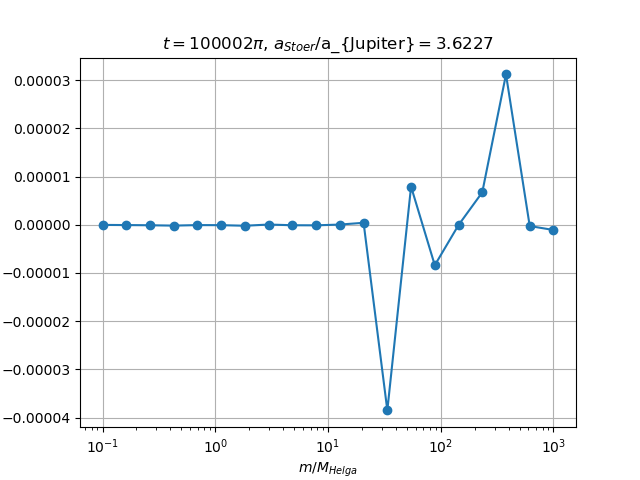
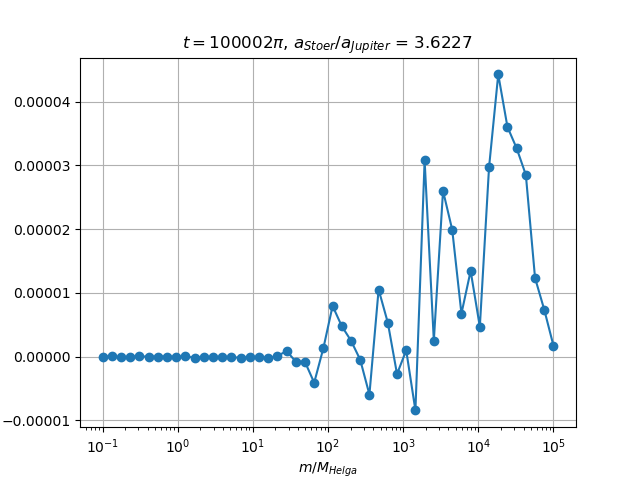
mstoer

diff --git a/python/lyapunov_exponent.py b/python/lyapunov_exponent.py
@@ -120,10 +120,8 @@ def lyapunov_helga_m_stoerung(start, end, steps, t):
         lyapunov[k] = l
     print(lyapunov)
     fig = plotlyapunov_m(lyapunov, masses)
-    plt.title('$t = %3d  2 \pi $, $a_{Stoer}/$a_{Jupiter}$ = %5.4f $' %(t,a_stoer))
+    plt.title('$t = %3d  2 \pi $, $a_{Stoer}$/$a_{Jupiter}$ = %5.4f ' %(t,a_stoer))
     fig.savefig('lyapunov_exp_m_variation.png')
-
-
 
 #----------------------------------------------------------------
 # set parameters for functions
@@ -138,9 +136,9 @@ a_end = 0.699
 a_stepsize = 0.00005
 
 m_start = -1 # m_start: starting exponent base 10
-m_end = 3 # m_end: ending exponent base 10
-m_steps = 20
-m_t = 1e4
+m_end = 5 # m_end: ending exponent base 10
+m_steps = 50
+m_t = 1e5
 
 if __name__ == "__main__":
     # lyapunov_t_multiple(t_n, t_start, t_end, t_stepsize)
